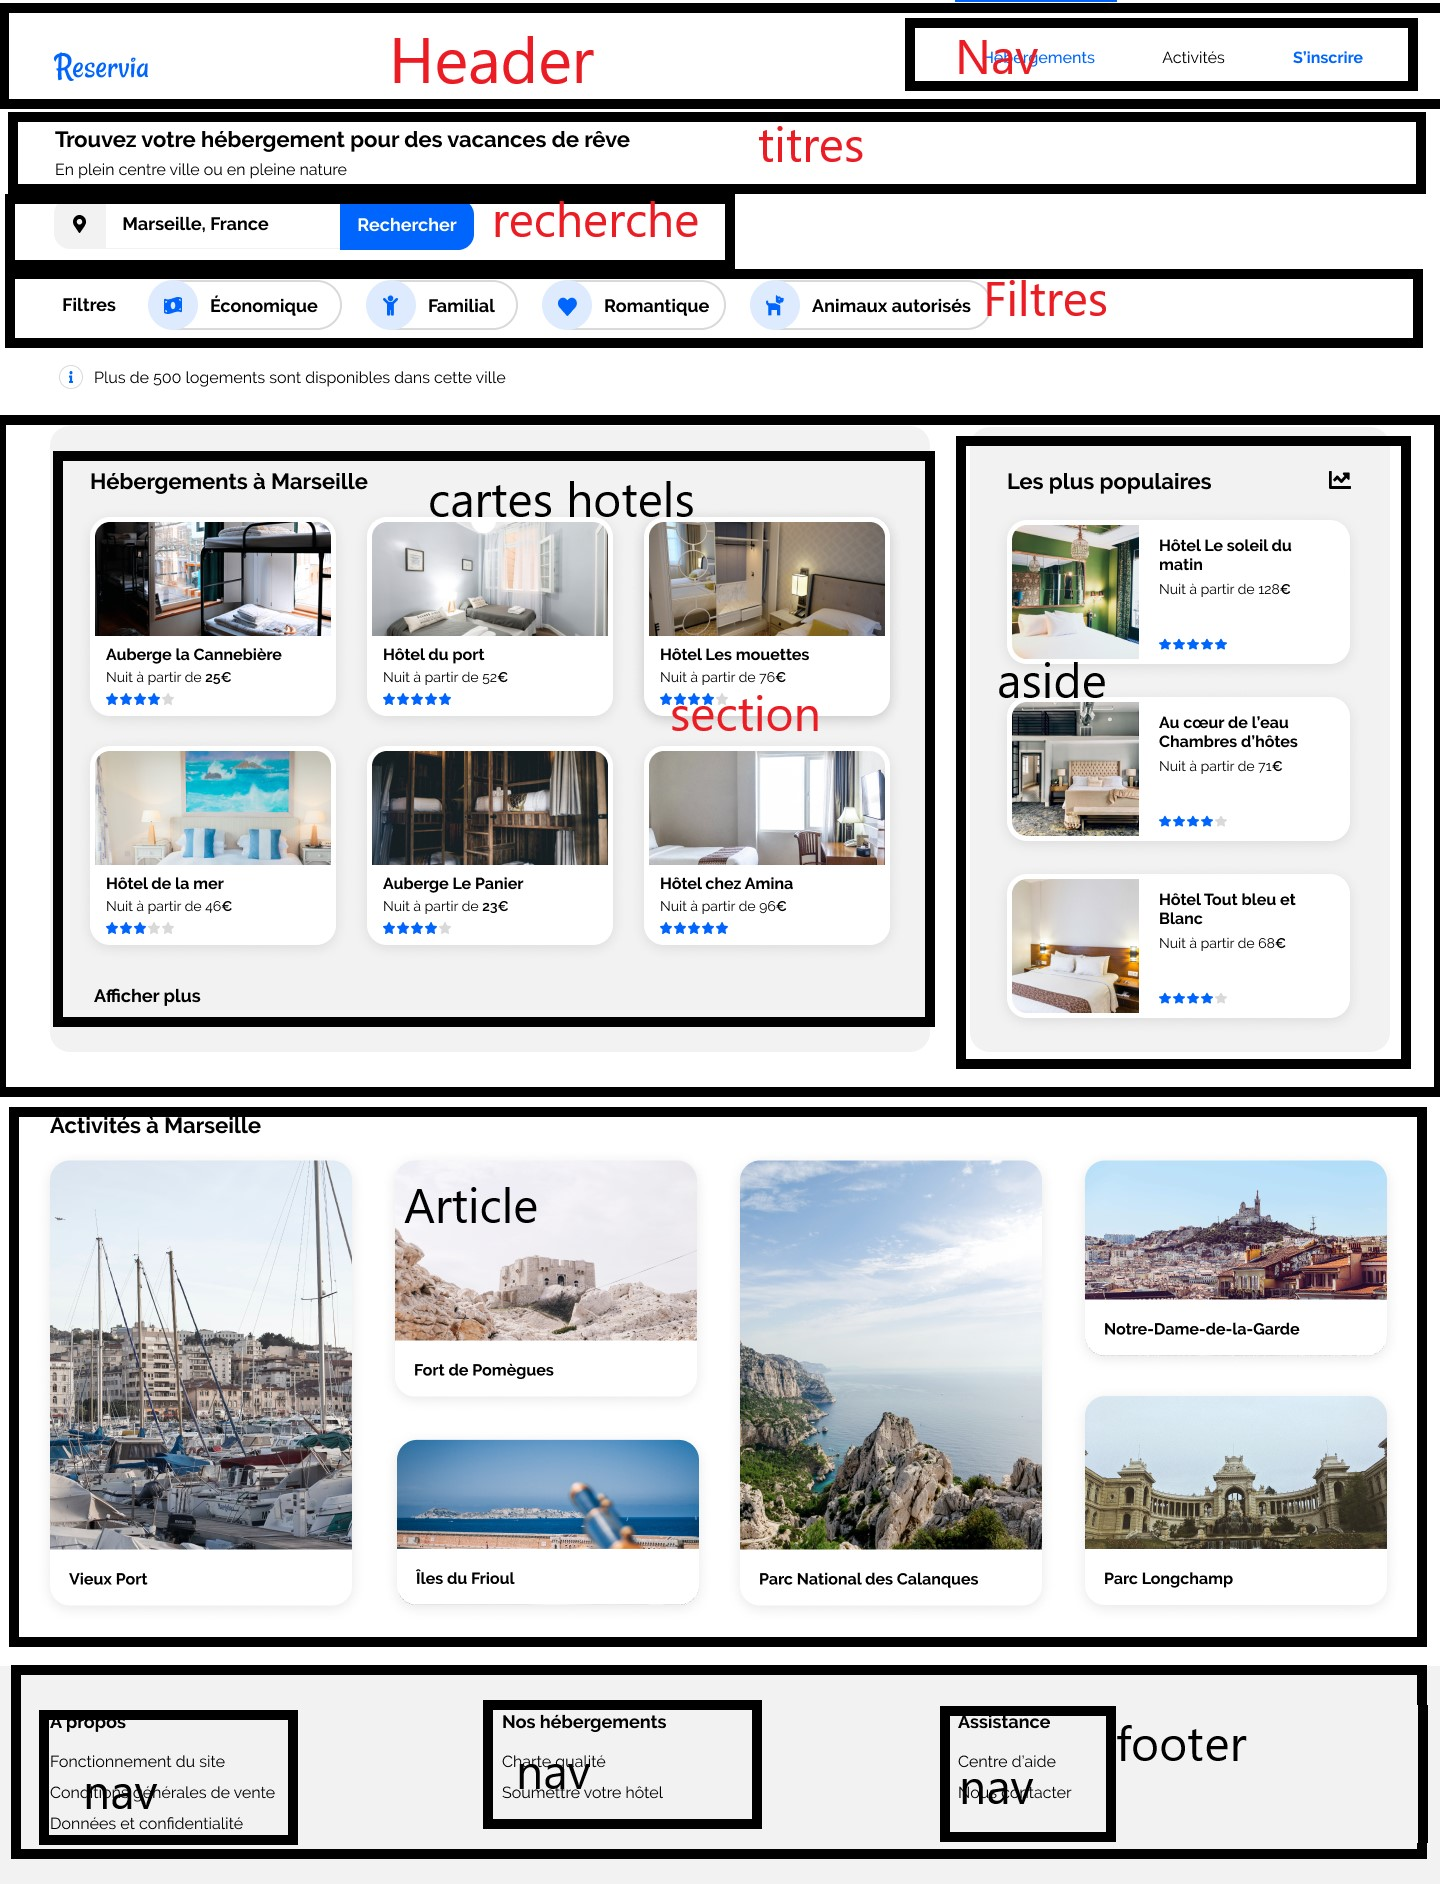
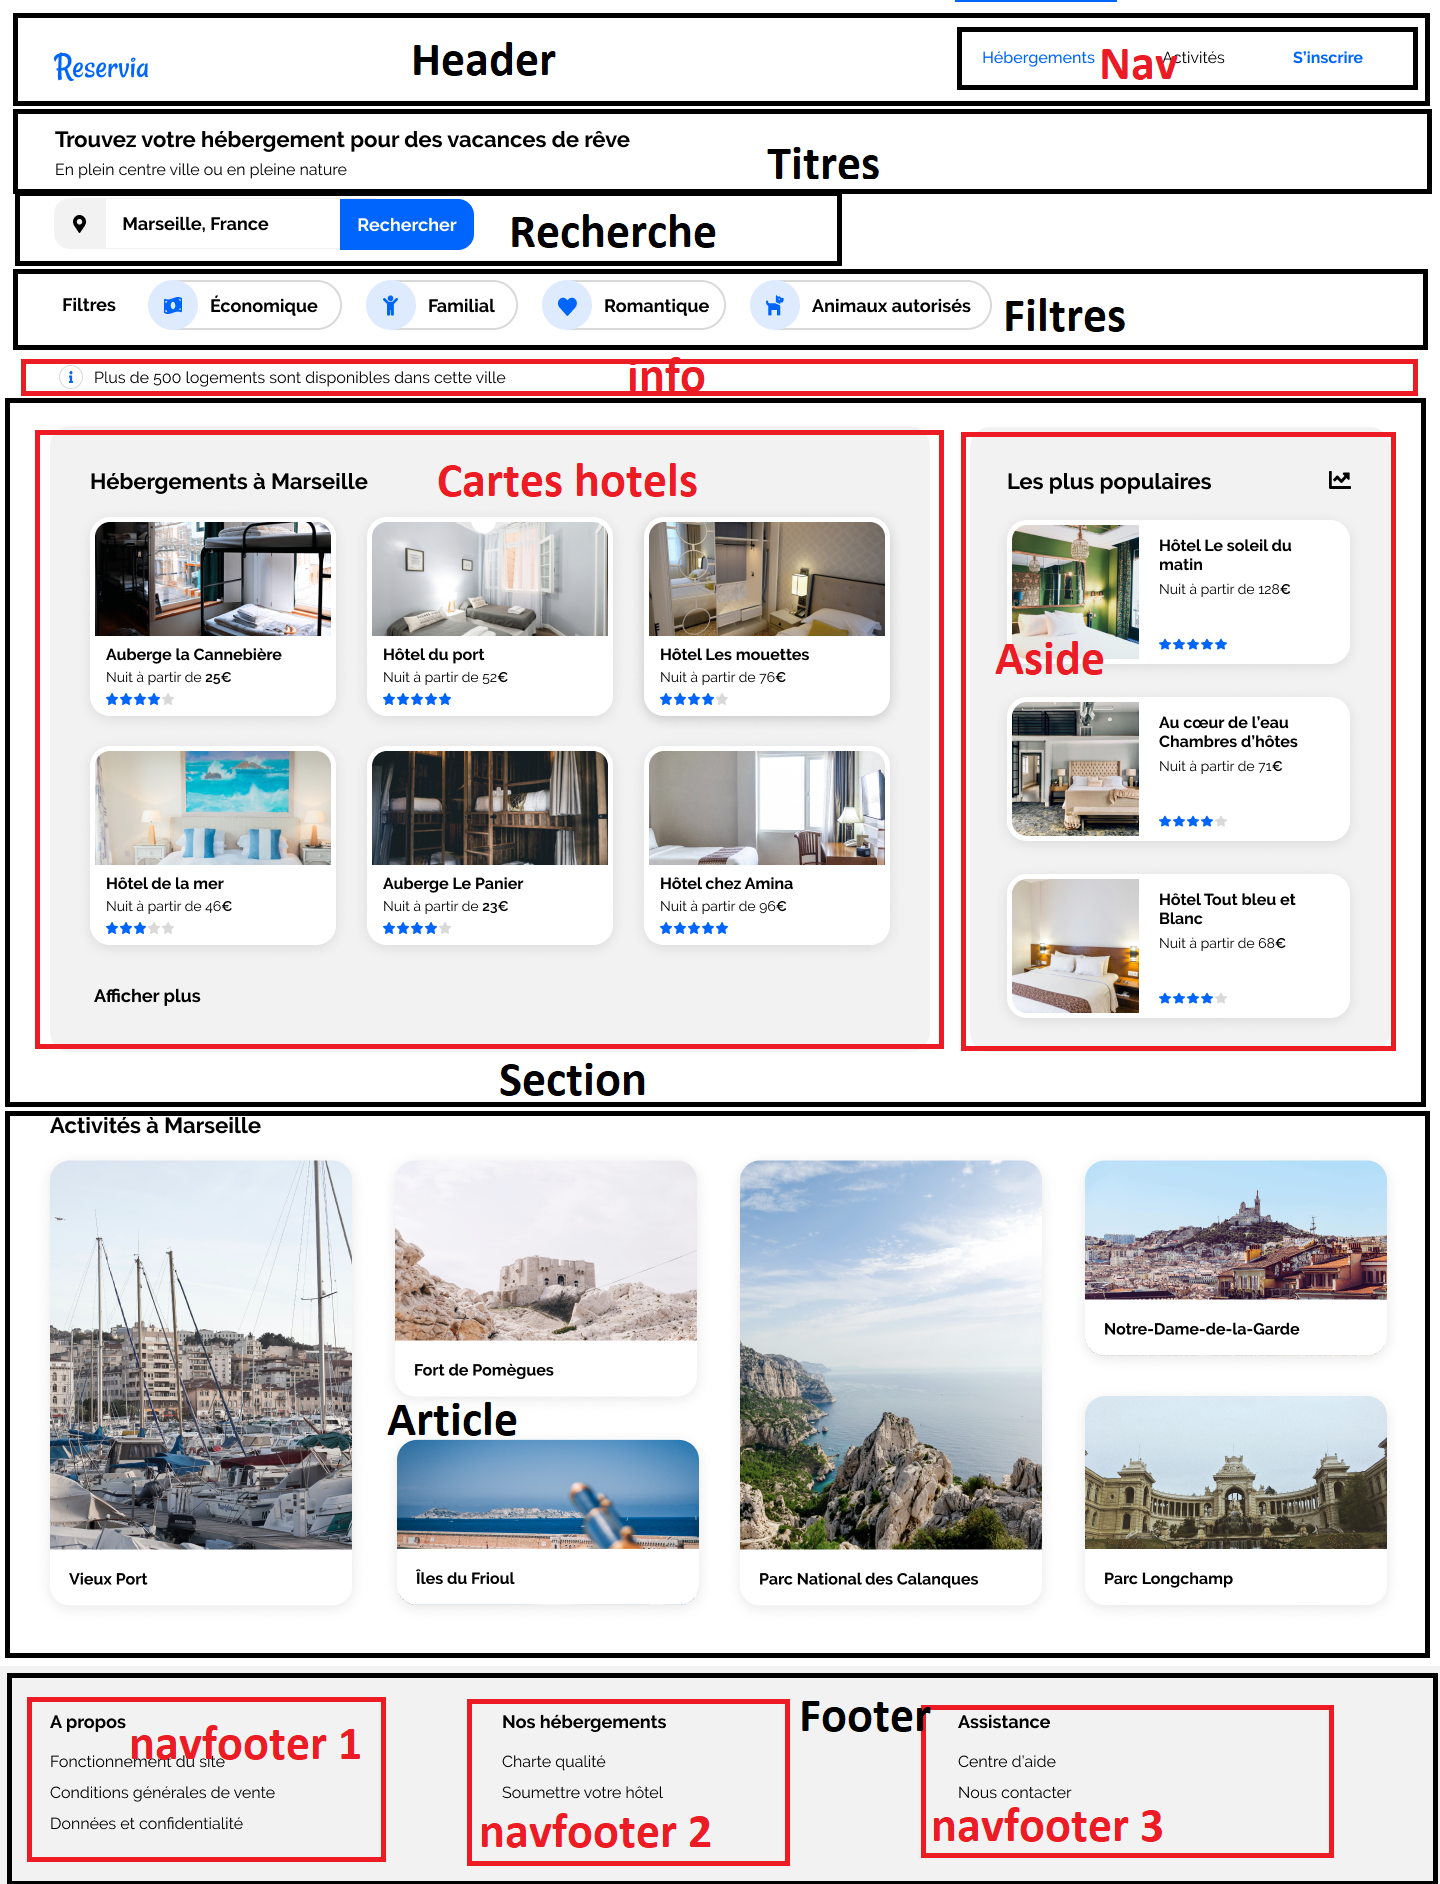
margin top du body

Changed region(s): [[0.0, 0.0, 1.0, 1.0], [0.25, 0.7389, 0.375, 0.7696], [0.4688, 0.3694, 0.5625, 0.4002]]

diff --git a/style.css b/style.css
@@ -8,6 +8,7 @@ body {
   display: flex;
   flex-direction: column;
   margin: 30px;
+  margin-top: 0;
   font-family: "raleway", Arial, Helvetica, sans-serif;
 }
 /*css du header*/
